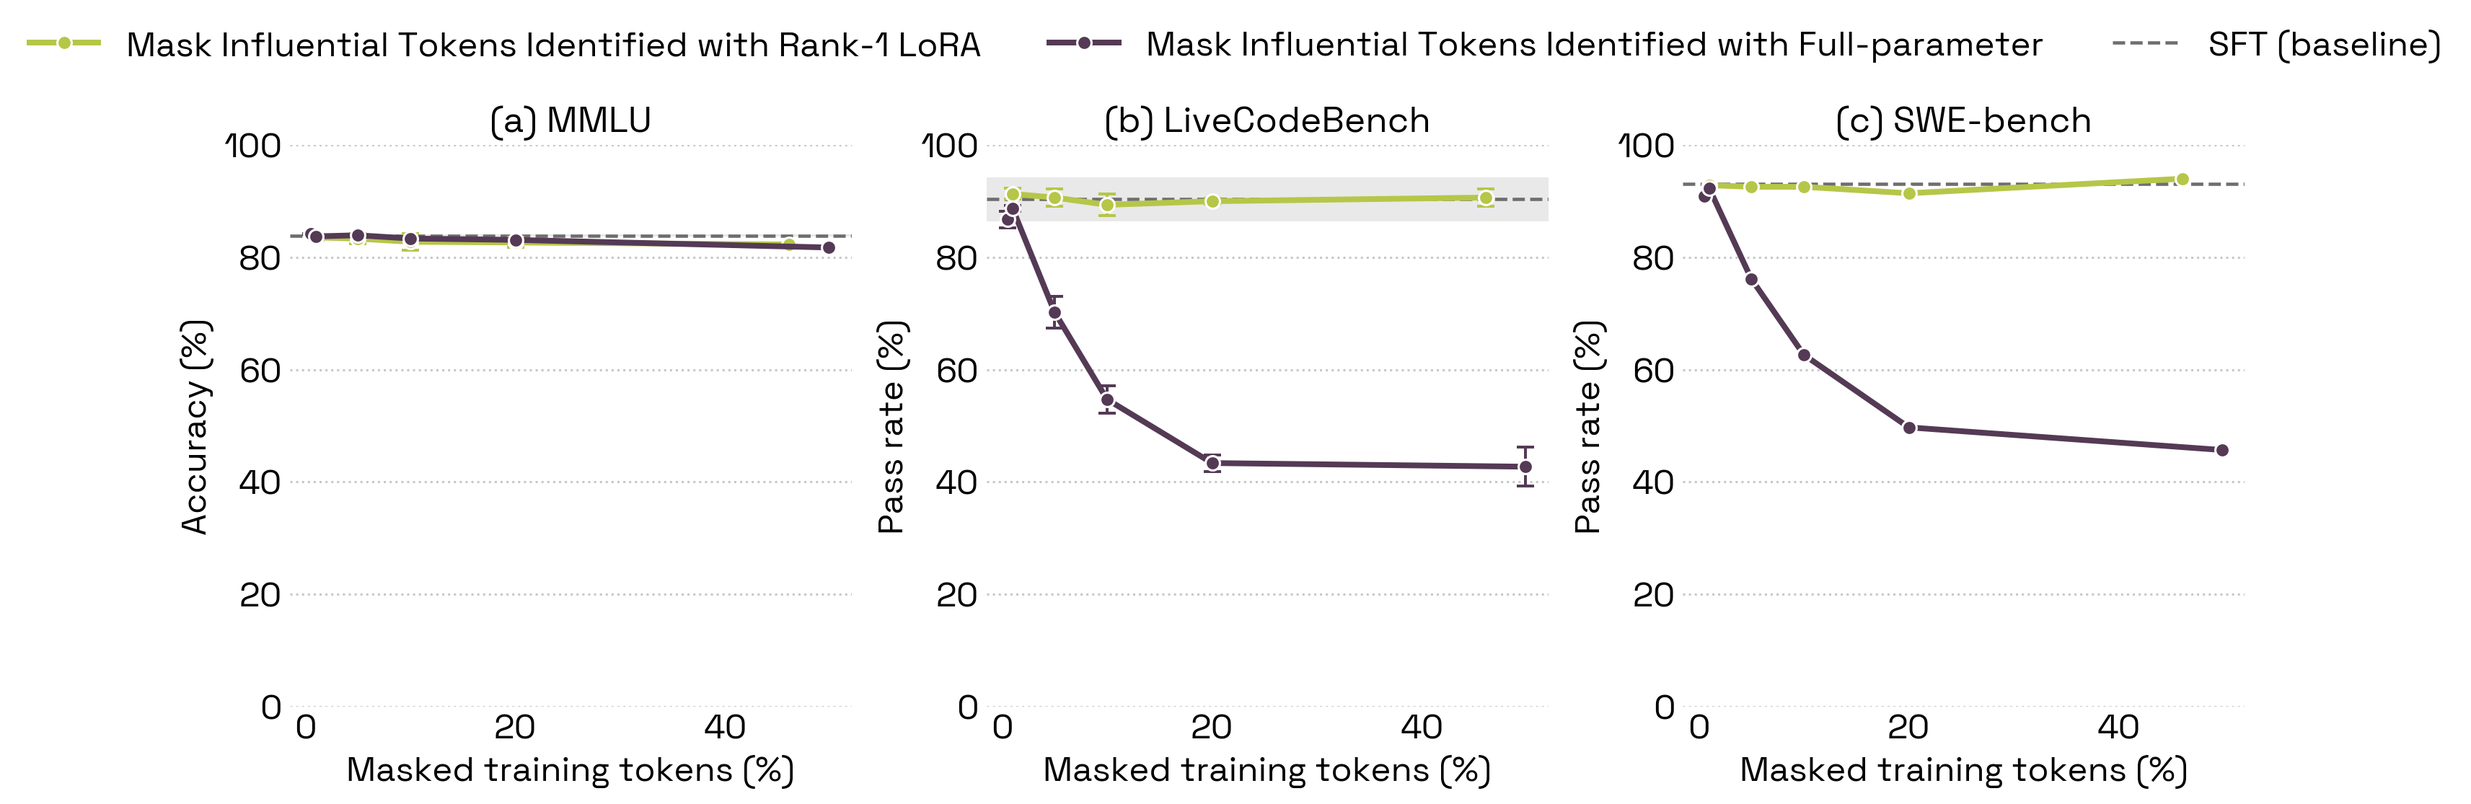
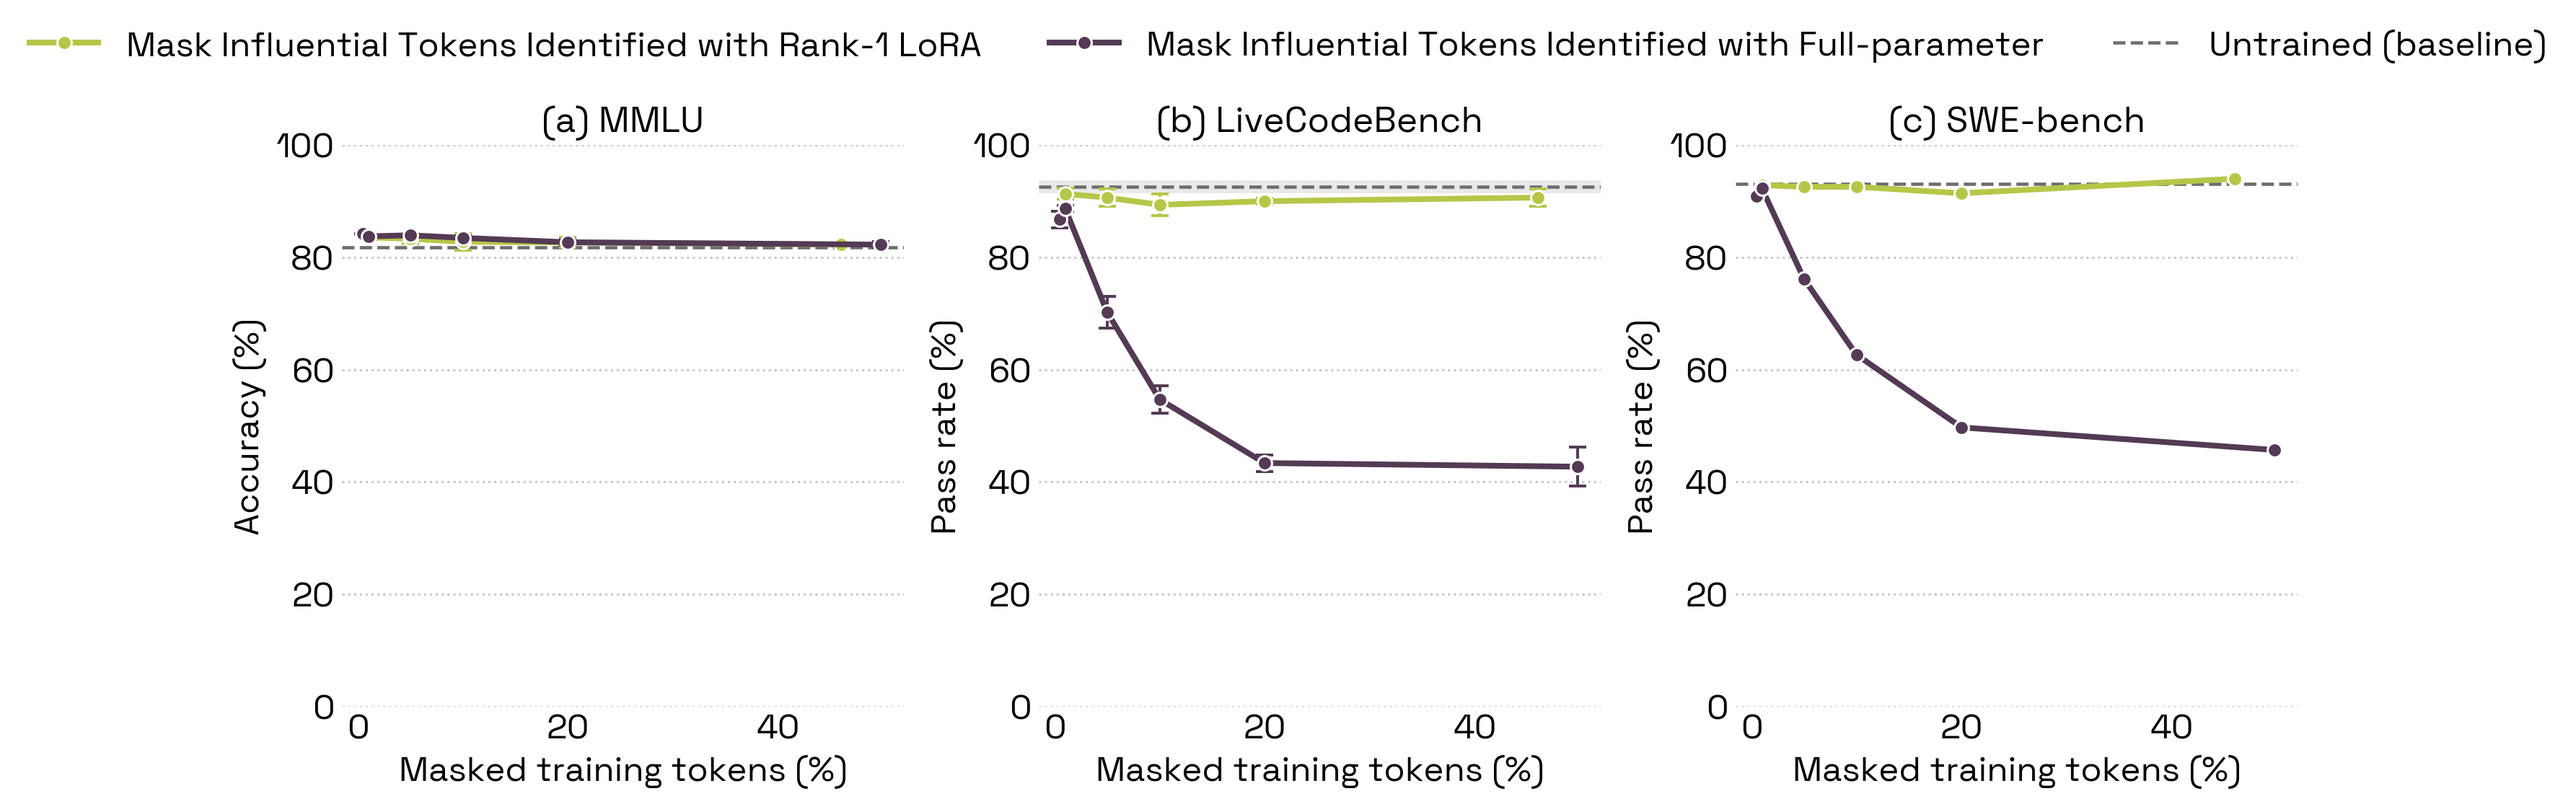
Fig 9 (capability curves): reference line is now the untrained base; all MMLU seeds in
Claude-Session: https://claude.ai/code/session_01GKCJqxoxrvymYScM2mXoyN

diff --git a/blog/reward-hacking-propensity.html b/blog/reward-hacking-propensity.html
@@ -16764,7 +16764,7 @@ z
       </div>
 
       <figure id="fig-3" class="fig-wide" style="max-width:960px" data-w="960">
-        <div class="fig1-interactive" id="fig3-int" style="margin:0 auto;position:relative"><svg xmlns:xlink="http://www.w3.org/1999/xlink" style="width:100%;height:auto" viewBox="0 0 1116.99958 335.44625" xmlns="http://www.w3.org/2000/svg" version="1.1">
+        <div class="fig1-interactive" id="fig3-int" style="max-width:960px;margin:0 auto"><svg xmlns:xlink="http://www.w3.org/1999/xlink" style="width:100%;height:auto" viewBox="0 0 1116.99958 335.44625" xmlns="http://www.w3.org/2000/svg" version="1.1">
  <metadata>
   <rdf:RDF xmlns:dc="http://purl.org/dc/elements/1.1/" xmlns:cc="http://creativecommons.org/ns#" xmlns:rdf="http://www.w3.org/1999/02/22-rdf-syntax-ns#">
    <cc:Work>
@@ -19624,7 +19624,7 @@ L 856.263017 255.876875
 
       <figure id="fig-8" class="fig-wide" style="max-width:864px">
         <img style="width:100%;max-width:864px;display:block;margin:0 auto" src="figures/rh/fig_capability_curves.png" alt="Capabilities after influence masking">
-        <figcaption><span class="fig-label">Figure 9.</span> Masking influential tokens from rank-1 LoRA does not hurt capabilities. MMLU accuracy and pass rate on normal (solvable) LiveCodeBench and SWE-bench against the share of training tokens masked, with the influence mask computed under rank-1 LoRA or full-parameter fine-tuning (rank-32 students; MMLU and LiveCodeBench mean ± std over up to 3 seeds, SWE-bench seed 0; MMLU runs still landing). Dashed: SFT without masking; shaded: ± std over its seeds.</figcaption>
+        <figcaption><span class="fig-label">Figure 9.</span> Masking influential tokens from rank-1 LoRA does not hurt capabilities. MMLU accuracy and pass rate on normal (solvable) LiveCodeBench and SWE-bench against the share of training tokens masked, with the influence mask computed under rank-1 LoRA or full-parameter fine-tuning (rank-32 students; MMLU and LiveCodeBench mean ± std over 3 seeds, SWE-bench seed 0). Dashed: the untrained base model; shaded: ± std over its LiveCodeBench runs.</figcaption>
       </figure>
 
       <div class="text">
